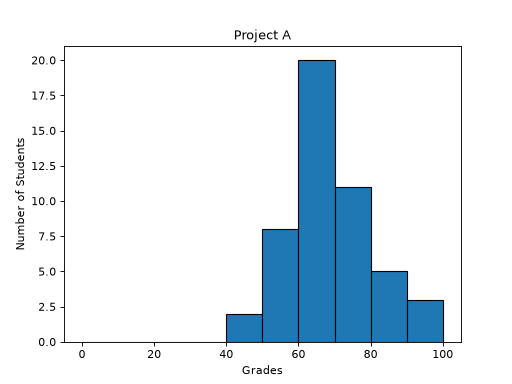
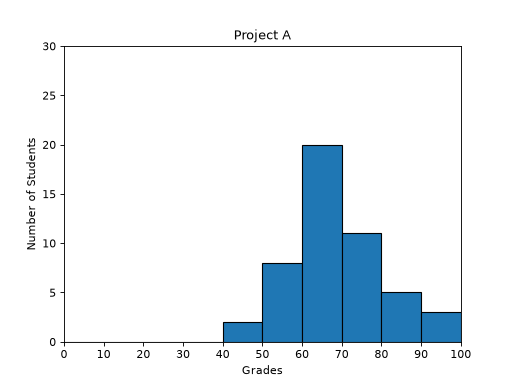
math/plotting: bug fix in task 4

diff --git a/math/plotting/4-frequency.py b/math/plotting/4-frequency.py
@@ -14,4 +14,7 @@ def frequency():
     plt.xlabel('Grades')
     plt.ylabel('Number of Students')
     plt.title('Project A')
+    plt.xlim(0, 100)
+    plt.ylim(0, 30)
+    plt.xticks(np.arange(0, 101, 10))
     plt.show()
